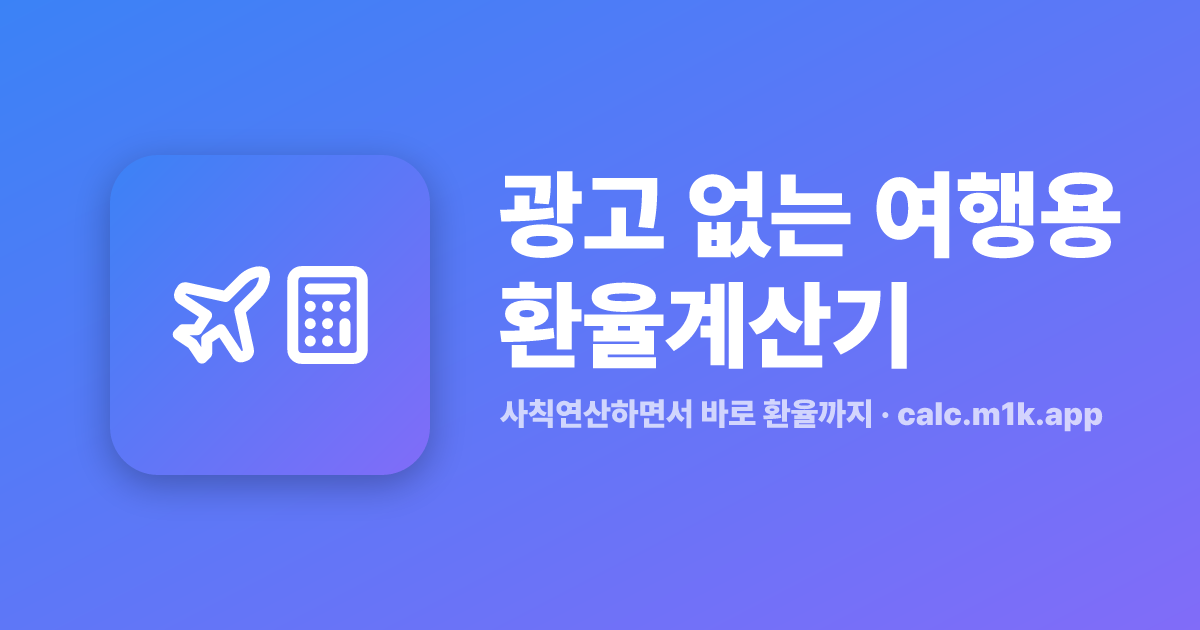
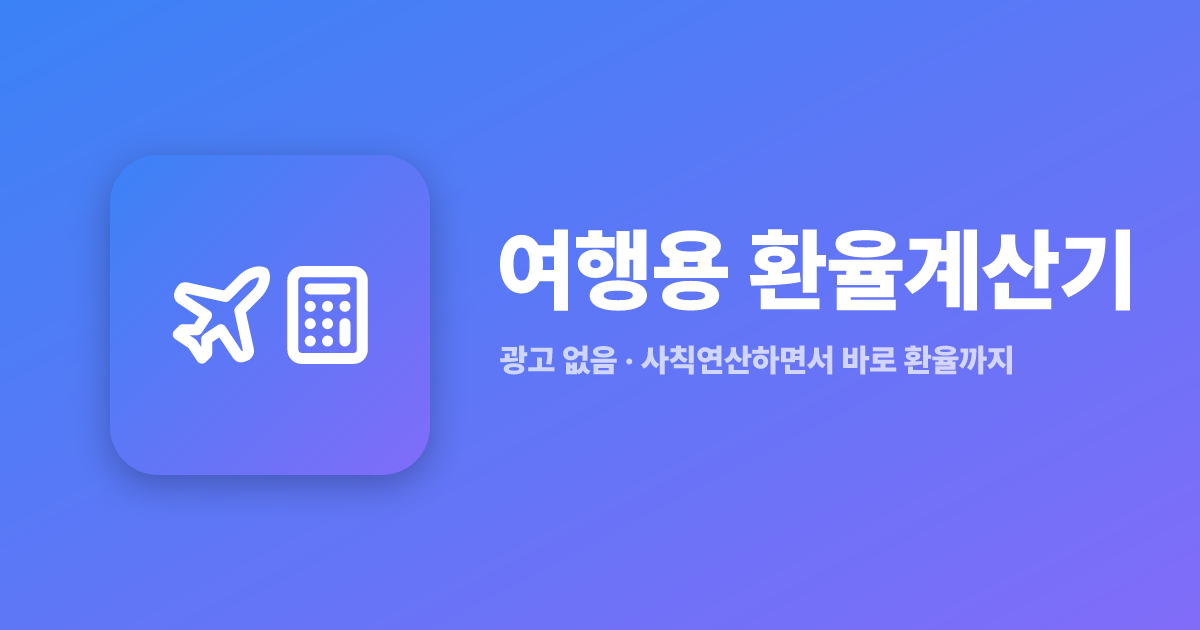
fix: 이름은 그냥 여행용 환율계산기 — 광고 없음은 OG 슬로건으로

Changed region(s): [[0.4008, 0.2714, 0.9558, 0.6032], [0.4008, 0.6333, 0.925, 0.6937]]

diff --git a/src/App.tsx b/src/App.tsx
@@ -59,7 +59,7 @@ function Calculator() {
   const c = findCurrency(code);
   useEffect(() => {
     history.replaceState(null, "", `/${code.toLowerCase()}`);
-    document.title = `광고 없는 ${c.name} 여행용 환율계산기`;
+    document.title = `${c.name} 여행용 환율계산기`;
   }, [code]); // eslint-disable-line react-hooks/exhaustive-deps
   const auto = cached?.krwPer[code];
   const rate = manual[code] ?? auto; // 1 단위 = 몇 원
@@ -106,7 +106,7 @@ function Calculator() {
               className="flex items-center justify-center size-8 rounded-full text-zinc-500 hover:bg-zinc-100 active:bg-zinc-100 active:scale-95 transition">
               <svg width="18" height="18" viewBox="0 0 24 24" fill="none" stroke="currentColor" strokeWidth="2" strokeLinecap="round" strokeLinejoin="round"><circle cx="12" cy="12" r="9" /><polyline points="12 7 12 12 15.5 14" /></svg>
             </button>
-            <ShareButton url={`https://calc.m1k.app/${code.toLowerCase()}`} title={`광고 없는 ${c.name} 여행용 환율계산기`} label="공유" className={ICON_ONLY} />
+            <ShareButton url={`https://calc.m1k.app/${code.toLowerCase()}`} title={`${c.name} 여행용 환율계산기`} label="공유" className={ICON_ONLY} />
           </div>
         </div>
       </AppShellHeader>

diff --git a/index.html b/index.html
@@ -3,9 +3,9 @@
   <head>
     <meta charset="UTF-8" />
     <meta name="viewport" content="width=device-width, initial-scale=1.0, viewport-fit=cover" />
-    <title>광고 없는 여행용 환율계산기</title>
+    <title>여행용 환율계산기</title>
     <meta name="description" content="광고 없음. 사칙연산하면서 바로 환율까지. 베트남 동은 130만처럼 만 단위로 읽어 줘요." />
-    <meta property="og:title" content="광고 없는 여행용 환율계산기" />
+    <meta property="og:title" content="여행용 환율계산기" />
     <meta property="og:description" content="광고 없음. 사칙연산하면서 바로 환율까지." />
     <meta property="og:type" content="website" />
     <meta property="og:locale" content="ko_KR" />
